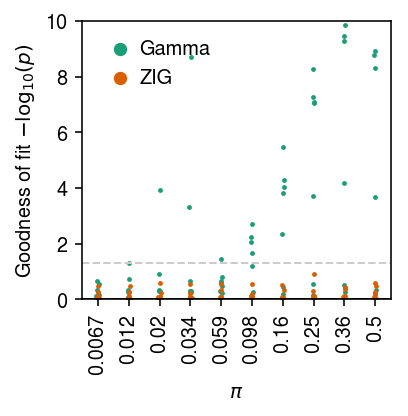
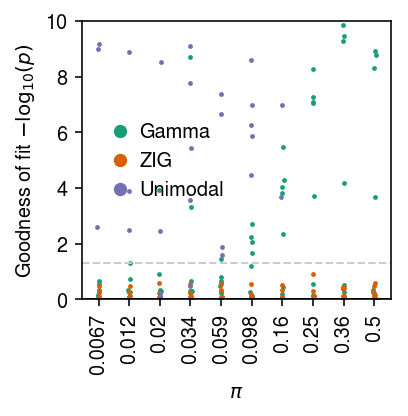
Examine unimodal GOF

diff --git a/docs/gof.html b/docs/gof.html
@@ -1,7 +1,7 @@
 <!DOCTYPE html>
 <html lang="en">
 <head>
-<!-- 2019-09-26 Thu 16:57 -->
+<!-- 2019-09-26 Thu 21:12 -->
 <meta charset="utf-8">
 <meta name="viewport" content="width=device-width, initial-scale=1">
 <title>Goodness of fit of deconvolved distributions</title>
@@ -262,7 +262,7 @@ for the JavaScript code in this tag.
 <li><a href="#setup">Setup</a></li>
 <li><a href="#org9458460">Methods</a>
 <ul>
-<li><a href="#orgfb07372">Test for goodness of fit</a></li>
+<li><a href="#orga204b4e">Test for goodness of fit</a></li>
 <li><a href="#org1e959d4">Poisson-unimodal goodness of fit</a></li>
 <li><a href="#orgfd5c235">Data</a></li>
 </ul>
@@ -270,6 +270,7 @@ for the JavaScript code in this tag.
 <li><a href="#org2a494f2">Results</a>
 <ul>
 <li><a href="#simulation">Simulation</a></li>
+<li><a href="#sim-ex">Simulated example</a></li>
 <li><a href="#gof">Test for goodness of fit</a></li>
 <li><a href="#examples">Examples</a></li>
 </ul>
@@ -316,6 +317,7 @@ Here, we directly test for the goodness of fit of the estimated distribution
 
 <div class="org-src-container">
 <pre class="src src-ipython"><span class="org-keyword">import</span> scipy.special <span class="org-keyword">as</span> sp
+<span class="org-keyword">import</span> scipy.stats <span class="org-keyword">as</span> st
 <span class="org-keyword">import</span> scqtl
 </pre>
 </div>
@@ -339,9 +341,9 @@ Here, we directly test for the goodness of fit of the estimated distribution
 <h2 id="org9458460">Methods</h2>
 <div class="outline-text-2" id="text-org9458460">
 </div>
-<div id="outline-container-orgfb07372" class="outline-3">
-<h3 id="orgfb07372">Test for goodness of fit</h3>
-<div class="outline-text-3" id="text-orgfb07372">
+<div id="outline-container-orga204b4e" class="outline-3">
+<h3 id="orga204b4e">Test for goodness of fit</h3>
+<div class="outline-text-3" id="text-orga204b4e">
 <p>
 The key idea underlying our test for goodness of fit is the fact that if
 \(x_{i} \sim F(\cdot)\), then \(F(x_{i}) \sim \operatorname{Uniform}(0,
@@ -486,15 +488,12 @@ Draw simulation parameters \(s_i=10^5, \ln\mu, \ln\phi\) from typical values
 \end{align*}
 
 <p>
-Then, test for goodness of fit of Poisson-Gamma and Poisson-point Gamma.
+Then, test for goodness of fit of Gamma, point-Gamma, and unimodal, each
+convolved with Poisson.
 </p>
 
 <div class="org-src-container">
-<pre class="src src-ipython"><span class="org-keyword">import</span> rpy2.robjects.packages
-<span class="org-keyword">import</span> rpy2.robjects.pandas2ri
-<span class="org-keyword">import</span> scmodes.benchmark.gof
-
-<span class="org-variable-name">ashr</span> = rpy2.robjects.packages.importr(<span class="org-string">'ashr'</span>)
+<pre class="src src-ipython"><span class="org-keyword">import</span> scmodes.benchmark.gof
 
 <span class="org-keyword">def</span> <span class="org-function-name">trial</span>(num_samples, logodds, seed, verbose=<span class="org-constant">False</span>):
   <span class="org-variable-name">data</span>, <span class="org-variable-name">_</span> = scqtl.simulation.simulate(num_samples=num_samples, logodds=logodds, seed=seed)
@@ -510,15 +509,16 @@ Then, test for goodness of fit of Poisson-Gamma and Poisson-point Gamma.
                                     pmf=scmodes.benchmark.gof._zig_pmf, size=s,
                                     log_mu=np.log(fit1[0]), log_phi=-np.log(fit1[1]), logodds=fit1[2])
 
-  <span class="org-variable-name">res2</span> = scmodes.benchmark.gof._gof_unimodal(<span class="org-string">""</span>, x, s)
-  <span class="org-keyword">return</span> res0[1], res1[1], res2[1]
+  <span class="org-comment-delimiter"># </span><span class="org-comment">Important: this returns the gene name as the first return value</span>
+  <span class="org-variable-name">res2</span> = scmodes.benchmark.gof._gof_unimodal(<span class="org-string">'gene'</span>, pd.Series(x), pd.Series(s))
+  <span class="org-keyword">return</span> res0[1], res1[1], res2[2]
 
 <span class="org-keyword">def</span> <span class="org-function-name">evaluate</span>(num_samples, num_trials):
   <span class="org-variable-name">result</span> = []
   <span class="org-keyword">for</span> logodds <span class="org-keyword">in</span> np.linspace(-5, 0, 10):
     <span class="org-keyword">for</span> seed <span class="org-keyword">in</span> <span class="org-builtin">range</span>(num_trials):
-      <span class="org-variable-name">gamma_res</span>, <span class="org-variable-name">zig_res</span> = trial(num_samples, logodds, seed)
-      result.append([logodds, seed, gamma_res, zig_res])
+      <span class="org-variable-name">gamma_res</span>, <span class="org-variable-name">zig_res</span>, <span class="org-variable-name">unimodal_res</span> = trial(num_samples, logodds, seed)
+      result.append([logodds, seed, gamma_res, zig_res, unimodal_res])
   <span class="org-variable-name">result</span> = pd.DataFrame(result)
   <span class="org-variable-name">result.columns</span> = [<span class="org-string">'logodds'</span>, <span class="org-string">'trial'</span>, <span class="org-string">'gamma'</span>, <span class="org-string">'zig'</span>, <span class="org-string">'unimodal'</span>]
   <span class="org-keyword">return</span> result
@@ -560,9 +560,9 @@ Plot the results.
 <pre class="src src-ipython"><span class="org-variable-name">cm</span> = plt.get_cmap(<span class="org-string">'Dark2'</span>)
 plt.clf()
 plt.gcf().set_size_inches(3, 3)
-<span class="org-keyword">for</span> i, (k, l) <span class="org-keyword">in</span> <span class="org-builtin">enumerate</span>(<span class="org-builtin">zip</span>([<span class="org-string">'gamma'</span>, <span class="org-string">'zig'</span>], [<span class="org-string">'Gamma'</span>, <span class="org-string">'ZIG'</span>])):
+<span class="org-keyword">for</span> i, (k, l) <span class="org-keyword">in</span> <span class="org-builtin">enumerate</span>(<span class="org-builtin">zip</span>([<span class="org-string">'gamma'</span>, <span class="org-string">'zig'</span>, <span class="org-string">'unimodal'</span>], [<span class="org-string">'Gamma'</span>, <span class="org-string">'ZIG'</span>, <span class="org-string">'Unimodal'</span>])):
   <span class="org-variable-name">jitter</span> = np.random.normal(scale=0.01, size=sim_res.shape[0])
-  plt.scatter(sim_res[<span class="org-string">'logodds'</span>] + jitter, -np.log10(sim_res[k]), s=2, c=np.atleast_2d(cm(i)), label=l)
+  plt.scatter(sim_res[<span class="org-string">'logodds'</span>] + jitter, -np.log10(sim_res[k] + 1e-100), s=2, c=np.atleast_2d(cm(i)), label=l)
 plt.axhline(y=0, c=<span class="org-string">'k'</span>, lw=1)
 plt.axhline(y=-np.log10(.05), c=<span class="org-string">'0.8'</span>, ls=<span class="org-string">'--'</span>, lw=1)
 plt.legend(frameon=<span class="org-constant">False</span>, handletextpad=0, markerscale=4)
@@ -587,9 +587,9 @@ Plot a zoomed-in version of the results.
 <pre class="src src-ipython"><span class="org-variable-name">cm</span> = plt.get_cmap(<span class="org-string">'Dark2'</span>)
 plt.clf()
 plt.gcf().set_size_inches(3, 3)
-<span class="org-keyword">for</span> i, (k, l) <span class="org-keyword">in</span> <span class="org-builtin">enumerate</span>(<span class="org-builtin">zip</span>([<span class="org-string">'gamma'</span>, <span class="org-string">'zig'</span>], [<span class="org-string">'Gamma'</span>, <span class="org-string">'ZIG'</span>])):
+<span class="org-keyword">for</span> i, (k, l) <span class="org-keyword">in</span> <span class="org-builtin">enumerate</span>(<span class="org-builtin">zip</span>([<span class="org-string">'gamma'</span>, <span class="org-string">'zig'</span>, <span class="org-string">'unimodal'</span>], [<span class="org-string">'Gamma'</span>, <span class="org-string">'ZIG'</span>, <span class="org-string">'Unimodal'</span>])):
   <span class="org-variable-name">jitter</span> = np.random.normal(scale=0.01, size=sim_res.shape[0])
-  plt.scatter(sim_res[<span class="org-string">'logodds'</span>] + jitter, -np.log10(sim_res[k]), s=2, c=np.atleast_2d(cm(i)), label=l)
+  plt.scatter(sim_res[<span class="org-string">'logodds'</span>] + jitter, -np.log10(sim_res[k] + 1e-100), s=2, c=np.atleast_2d(cm(i)), label=l)
 plt.axhline(y=0, c=<span class="org-string">'k'</span>, lw=1)
 plt.axhline(y=-np.log10(.05), c=<span class="org-string">'0.8'</span>, ls=<span class="org-string">'--'</span>, lw=1)
 plt.legend(frameon=<span class="org-constant">False</span>, handletextpad=0, markerscale=4)
@@ -609,8 +609,126 @@ plt.tight_layout()
 </div>
 </div>
 
-<div id="outline-container-org8d2e65a" class="outline-3">
-<h3 id="gof"><a id="org8d2e65a"></a>Test for goodness of fit</h3>
+<div id="outline-container-orgfce2633" class="outline-3">
+<h3 id="sim-ex"><a id="orgfce2633"></a>Simulated example</h3>
+<div class="outline-text-3" id="text-sim-ex">
+<p>
+Look at an example:
+</p>
+
+<div class="org-src-container">
+<pre class="src src-ipython"><span class="org-keyword">import</span> rpy2.robjects.packages
+<span class="org-keyword">import</span> rpy2.robjects.pandas2ri
+rpy2.robjects.pandas2ri.activate()
+<span class="org-variable-name">ashr</span> = rpy2.robjects.packages.importr(<span class="org-string">'ashr'</span>)
+
+<span class="org-variable-name">data</span>, <span class="org-variable-name">_</span> = scqtl.simulation.simulate(num_samples=1000, logodds=-5, seed=0)
+<span class="org-variable-name">x</span> = pd.Series(data[:,0])
+<span class="org-variable-name">s</span> = pd.Series(data[:,1])
+<span class="org-variable-name">lam</span> = x / s
+<span class="org-variable-name">fit</span> = ashr.ash_workhorse(
+  <span class="org-comment-delimiter"># </span><span class="org-comment">these are ignored by ash</span>
+  pd.Series(np.zeros(x.shape)),
+  1,
+  <span class="org-comment-delimiter"># </span><span class="org-comment">Important: we need to access data from inside ash to compute PMF/CDF</span>
+  outputlevel=pd.Series([<span class="org-string">'loglik'</span>, <span class="org-string">'fitted_g'</span>]),
+  <span class="org-comment-delimiter"># </span><span class="org-comment">numpy2ri doesn't DTRT, so we need to use pandas</span>
+  lik=ashr.lik_pois(y=x, scale=s, link=<span class="org-string">'identity'</span>),
+  mixsd=pd.Series(np.geomspace((.5 / s).<span class="org-builtin">min</span>(), lam.<span class="org-builtin">max</span>(), 25)),
+  mode=pd.Series([lam.<span class="org-builtin">min</span>(), lam.<span class="org-builtin">max</span>()]))
+<span class="org-variable-name">grid</span> = np.linspace(lam.<span class="org-builtin">min</span>(), lam.<span class="org-builtin">max</span>(), 1000)
+<span class="org-variable-name">Fx</span> = np.array(ashr.cdf_ash(fit, grid).rx2(<span class="org-string">'y'</span>)).ravel()
+</pre>
+</div>
+
+<p>
+For comparison, fit ZINB to this example.
+</p>
+
+<div class="org-src-container">
+<pre class="src src-ipython"><span class="org-variable-name">fit1</span> = scqtl.simple.fit_zinb(x, s)
+<span class="org-comment-delimiter"># </span><span class="org-comment">This calls scqtl.simple.fit_zinb</span>
+<span class="org-variable-name">_</span>, <span class="org-variable-name">zinb_cdf</span> = scmodes.deconvolve.fit_zig(x, s)
+</pre>
+</div>
+
+<p>
+Plot the data and estimated \(\hat{g}\). Also plot the estimated mode.
+</p>
+
+<div class="org-src-container">
+<pre class="src src-ipython"><span class="org-variable-name">cm</span> = plt.get_cmap(<span class="org-string">'Dark2'</span>)
+plt.clf()
+<span class="org-variable-name">fig</span>, <span class="org-variable-name">ax</span> = plt.subplots(2, 1)
+fig.set_size_inches(5, 4)
+ax[0].hist(x.values, bins=np.arange(x.<span class="org-builtin">max</span>() + 1), color=<span class="org-string">'0.5'</span>)
+ax[0].set_xlim(0, x.<span class="org-builtin">max</span>())
+ax[0].set_xlabel(<span class="org-string">'Number of molecules'</span>)
+ax[0].set_ylabel(<span class="org-string">'Number of cells'</span>)
+
+ax[1].plot(grid, zinb_cdf, lw=1, c=cm(0), label=<span class="org-string">'ZIG'</span>)
+ax[1].axvline(x=fit1[0], c=cm(0), ls=<span class="org-string">':'</span>, lw=1)
+ax[1].plot(grid, Fx, lw=1, c=cm(1), label=<span class="org-string">'Unimodal'</span>)
+ax[1].axvline(x=np.array(fit.rx2(<span class="org-string">'fitted_g'</span>).rx2(<span class="org-string">'a'</span>))[0], c=cm(1), ls=<span class="org-string">':'</span>, lw=1)
+ax[1].legend(frameon=<span class="org-constant">False</span>)
+ax[1].set_xlabel(<span class="org-string">'Latent gene expression $\lambda$'</span>)
+ax[1].set_ylabel(<span class="org-string">'CDF'</span>)
+
+fig.tight_layout()
+</pre>
+</div>
+
+
+<div class="figure">
+<p><img src="figure/gof.org/unimodal-gof-example.png" alt="unimodal-gof-example.png">
+</p>
+</div>
+
+<p>
+Report the log likelihood.
+</p>
+
+<div class="org-src-container">
+<pre class="src src-ipython">pd.Series({<span class="org-string">'zig'</span>: fit1[-1], <span class="org-string">'unimodal'</span>: np.array(fit.rx2(<span class="org-string">'loglik'</span>))[0]})
+</pre>
+</div>
+
+<pre class="example">
+zig        -2542.181486
+unimodal   -2566.495086
+dtype: float64
+</pre>
+
+<p>
+Report the goodness of fit.
+</p>
+
+<div class="org-src-container">
+<pre class="src src-ipython">scmodes.benchmark.gof._gof(x, cdf=scmodes.benchmark.gof._zig_cdf,
+                           pmf=scmodes.benchmark.gof._zig_pmf, size=s,
+                           log_mu=np.log(fit1[0]), log_phi=-np.log(fit1[1]), logodds=fit1[2])
+</pre>
+</div>
+
+<pre class="example">
+KstestResult(statistic=0.017599923681100874, pvalue=0.9160786776117419)
+
+</pre>
+
+<div class="org-src-container">
+<pre class="src src-ipython">scmodes.benchmark.gof._gof_unimodal(<span class="org-string">""</span>, pd.Series(x), pd.Series(s))
+</pre>
+</div>
+
+<pre class="example">
+('', 0.1068304085858266, 2.1574276423860724e-10)
+
+</pre>
+</div>
+</div>
+
+<div id="outline-container-org913fa46" class="outline-3">
+<h3 id="gof"><a id="org913fa46"></a>Test for goodness of fit</h3>
 <div class="outline-text-3" id="text-gof">
 <p>
 Run the GPU-based methods.
@@ -888,7 +1006,7 @@ fig.tight_layout()
 </div>
 <div id="postamble" class="status">
 <p class="author">Author: Abhishek Sarkar</p>
-<p class="date">Created: 2019-09-26 Thu 16:57</p>
+<p class="date">Created: 2019-09-26 Thu 21:12</p>
 <p class="validation"><a href="http://validator.w3.org/check?uri=referer">Validate</a></p>
 </div>
 </body>
